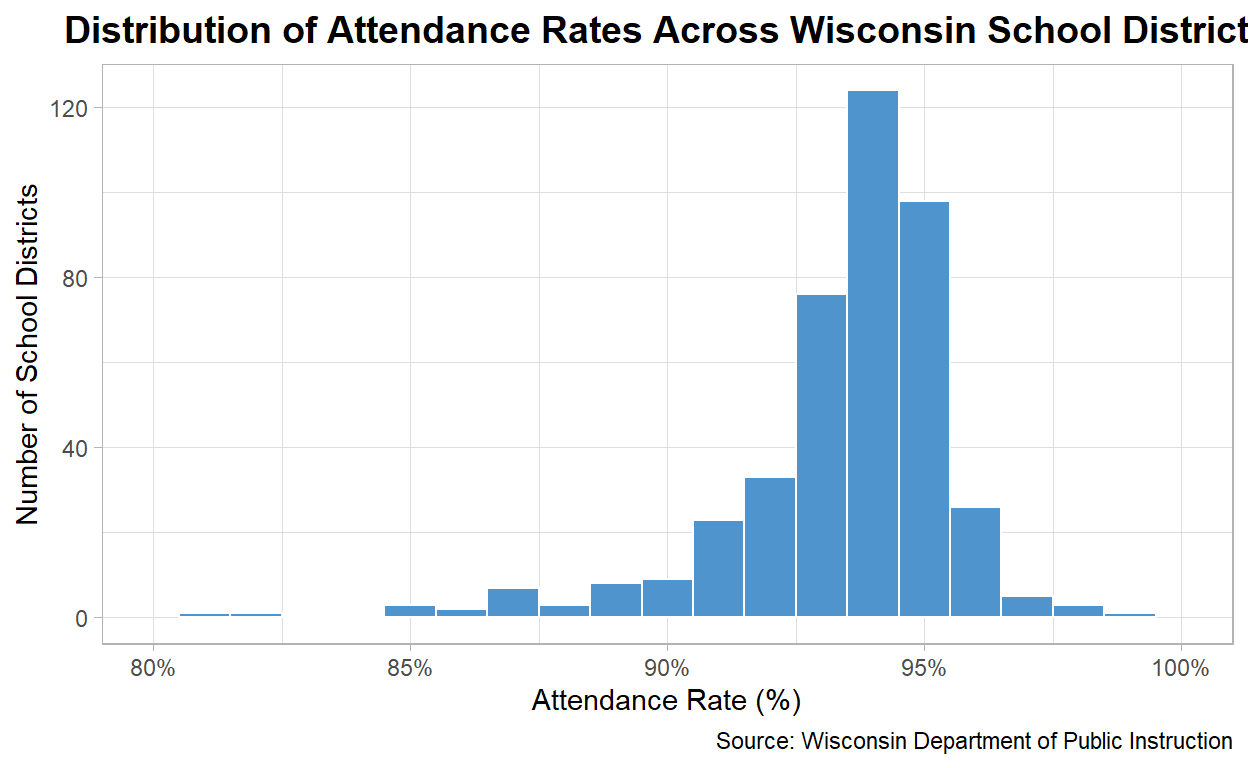
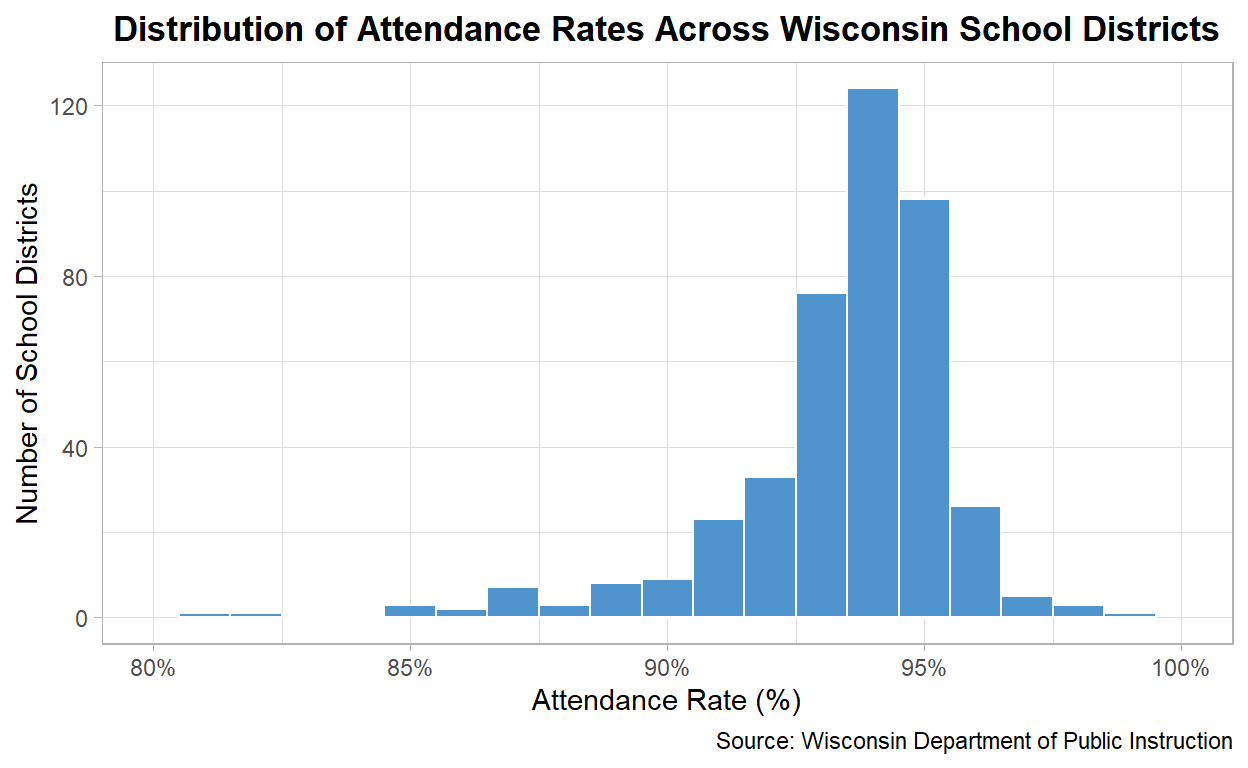
Histogram title adjustment

diff --git a/index.html b/index.html
@@ -1599,7 +1599,7 @@ code span.wa { color: #5e5e5e; font-style: italic; } /* Warning */
 <span>       caption <span class='op'>=</span> <span class='st'>"Source: Wisconsin Department of Public Instruction"</span><span class='op'>)</span> <span class='op'>+</span></span>
 <span>  <span class='fu'><a href='https://ggplot2.tidyverse.org/reference/scale_continuous.html'>scale_x_continuous</a></span><span class='op'>(</span>labels <span class='op'>=</span> <span class='fu'>scales</span><span class='fu'>::</span><span class='va'><a href='https://scales.r-lib.org/reference/percent_format.html'>percent</a></span>, limits <span class='op'>=</span> <span class='fu'><a href='https://rdrr.io/r/base/c.html'>c</a></span><span class='op'>(</span><span class='fl'>0.8</span>, <span class='fl'>1</span><span class='op'>)</span><span class='op'>)</span> <span class='op'>+</span></span>
 <span>  <span class='fu'><a href='https://ggplot2.tidyverse.org/reference/ggtheme.html'>theme_light</a></span><span class='op'>(</span><span class='op'>)</span> <span class='op'>+</span></span>
-<span>  <span class='fu'><a href='https://ggplot2.tidyverse.org/reference/theme.html'>theme</a></span><span class='op'>(</span>plot.title <span class='op'>=</span> <span class='fu'><a href='https://ggplot2.tidyverse.org/reference/element.html'>element_text</a></span><span class='op'>(</span>size <span class='op'>=</span> <span class='fl'>14</span>, face <span class='op'>=</span> <span class='st'>"bold"</span>, hjust <span class='op'>=</span> <span class='fl'>0.5</span><span class='op'>)</span><span class='op'>)</span></span></code></pre>
+<span>  <span class='fu'><a href='https://ggplot2.tidyverse.org/reference/theme.html'>theme</a></span><span class='op'>(</span>plot.title <span class='op'>=</span> <span class='fu'><a href='https://ggplot2.tidyverse.org/reference/element.html'>element_text</a></span><span class='op'>(</span>size <span class='op'>=</span> <span class='fl'>13</span>, face <span class='op'>=</span> <span class='st'>"bold"</span>, hjust <span class='op'>=</span> <span class='fl'>0.5</span><span class='op'>)</span><span class='op'>)</span></span></code></pre>
 </div>
 <p><img src="index_files/figure-html5/Dependent%20Histogram-1.png" width="624" /></p>
 </div>
